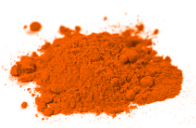
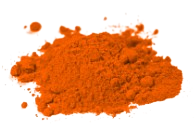
feat: update ingredients for new layout + get rid of white background in images

diff --git a/src/utils/ingredients.ts b/src/utils/ingredients.ts
@@ -12,27 +12,27 @@ interface IngredientMetadata {
 
 const imageMap: { [id in IngredientKey ] : IngredientMetadata } = {
     "almonds": {
-        img: "almonds.jpg",
+        img: "almonds.png",
         name: "Mandeln",
         background: "29, 47%",
     },
     "apple": {
-        img: "apple.jpg",
+        img: "apple.png",
         name: "Apfel",
         background: "14, 80%",
     },
     "aubergine": {
-        img: "aubergine.jpg",
+        img: "aubergine.png",
         name: "Aubergine",
         background: "27, 19%",
     },
     "avocado": {
-        img: "avocado.jpg",
+        img: "avocado.png",
         name: "Avocado",
         background: "65, 51%",
     },
     "bell-pepper": {
-        img: "bell-pepper.jpg",
+        img: "bell-pepper.png",
         name: "Paprika",
         background: "0, 99%",
     },
@@ -42,7 +42,7 @@ const imageMap: { [id in IngredientKey ] : IngredientMetadata } = {
         background: "40, 60%",
     },
     "broccoli": {
-        img: "broccoli.jpg",
+        img: "broccoli.png",
         name: "Brokkoli",
         background: "108, 35%",
     },
@@ -77,7 +77,7 @@ const imageMap: { [id in IngredientKey ] : IngredientMetadata } = {
         background: "5, 50%",
     },
     "chives": {
-        img: "chives.jpg",
+        img: "chives.png",
         name: "Schnittlauch",
         background: "102, 22%",
     },
@@ -92,12 +92,12 @@ const imageMap: { [id in IngredientKey ] : IngredientMetadata } = {
         background: "41, 83%",
     },
     "creme-vega": {
-        img: "creme-vega.jpg",
+        img: "creme-vega.png",
         name: "Créme Vega",
         background: "51, 73%",
     },
     "cucumber": {
-        img: "cucumber.jpg",
+        img: "cucumber.png",
         name: "Gurke",
         background: "137, 81%",
     },
@@ -107,12 +107,12 @@ const imageMap: { [id in IngredientKey ] : IngredientMetadata } = {
         background: "26, 27%",
     },
     "fish-sauce": {
-        img: "soy-sauce.jpg",
+        img: "soy-sauce.png",
         name: "Fischsauce",
         background: "26, 27%",
     },
     "garlic": {
-        img: "garlic.jpg",
+        img: "garlic.png",
         name: "Knoblauch",
         background: "39, 51%",
     },
@@ -127,12 +127,12 @@ const imageMap: { [id in IngredientKey ] : IngredientMetadata } = {
         background: "39, 51%",
     },
     "honey": {
-        img: "honey.jpg",
+        img: "honey.png",
         name: "Honig",
         background: "29, 68%",
     },
     "jalapeno": {
-        img: "jalapeno.jpg",
+        img: "jalapeno.png",
         name: "Jalapeño",
         background: "110, 29%",
     },
@@ -152,7 +152,7 @@ const imageMap: { [id in IngredientKey ] : IngredientMetadata } = {
         background: "86, 82%",
     },
     "mango": {
-        img: "mango.avif",
+        img: "mango.png",
         name: "Mango",
         background: "45, 92%",
     },
@@ -162,7 +162,7 @@ const imageMap: { [id in IngredientKey ] : IngredientMetadata } = {
         background: "49, 63%",
     },
     "mirin": {
-        img: "mirin.jpg",
+        img: "mirin.png",
         name: "Mirin ",
         background: "54, 89%",
     },
@@ -172,17 +172,17 @@ const imageMap: { [id in IngredientKey ] : IngredientMetadata } = {
         background: "39, 56%",
     },
     "mustard": {
-        img: "mustard.jpg",
+        img: "mustard.png",
         name: "Senf",
         background: "39, 56%",
     },
     "oil": {
-        img: "oil.jpg",
+        img: "oil.png",
         name: "Öl",
         background: "41, 74%",
     },
     "onion": {
-        img: "onion.jpg",
+        img: "onion.png",
         name: "Zwiebel",
         background: "23, 22%",
     },
@@ -197,7 +197,7 @@ const imageMap: { [id in IngredientKey ] : IngredientMetadata } = {
         background: "23, 100%",
     },
     "pepper": {
-        img: "pepper.jpg",
+        img: "pepper.png",
         name: "Pfeffer",
         background: "30, 33%",
     },
@@ -207,7 +207,7 @@ const imageMap: { [id in IngredientKey ] : IngredientMetadata } = {
         background: "73, 36%",
     },
     "salt": {
-        img: "salt.jpg",
+        img: "salt.png",
         name: "Salz",
         background: "51, 10%",
     },
@@ -217,12 +217,12 @@ const imageMap: { [id in IngredientKey ] : IngredientMetadata } = {
         background: "51, 10%",
     },
     "sesame-oil": {
-        img: "oil.jpg",
+        img: "oil.png",
         name: "Sesamöl",
         background: "51, 10%",
     },
     "soy-sauce": {
-        img: "soy-sauce.jpg",
+        img: "soy-sauce.png",
         name: "Sojasauce",
         background: "110, 29%",
     },
@@ -247,7 +247,7 @@ const imageMap: { [id in IngredientKey ] : IngredientMetadata } = {
         background: "42, 47%",
     },
     "tomato": {
-        img: "tomato.jpg",
+        img: "tomato.png",
         name: "Tomate",
         background: "8, 81%",
     },
@@ -262,7 +262,7 @@ const imageMap: { [id in IngredientKey ] : IngredientMetadata } = {
         background: "49, 94%",
     },
     "yoghurt": {
-        img: "yoghurt.jpg",
+        img: "yoghurt.png",
         name: "Yoghurt",
         background: "70, 50%",
     },
